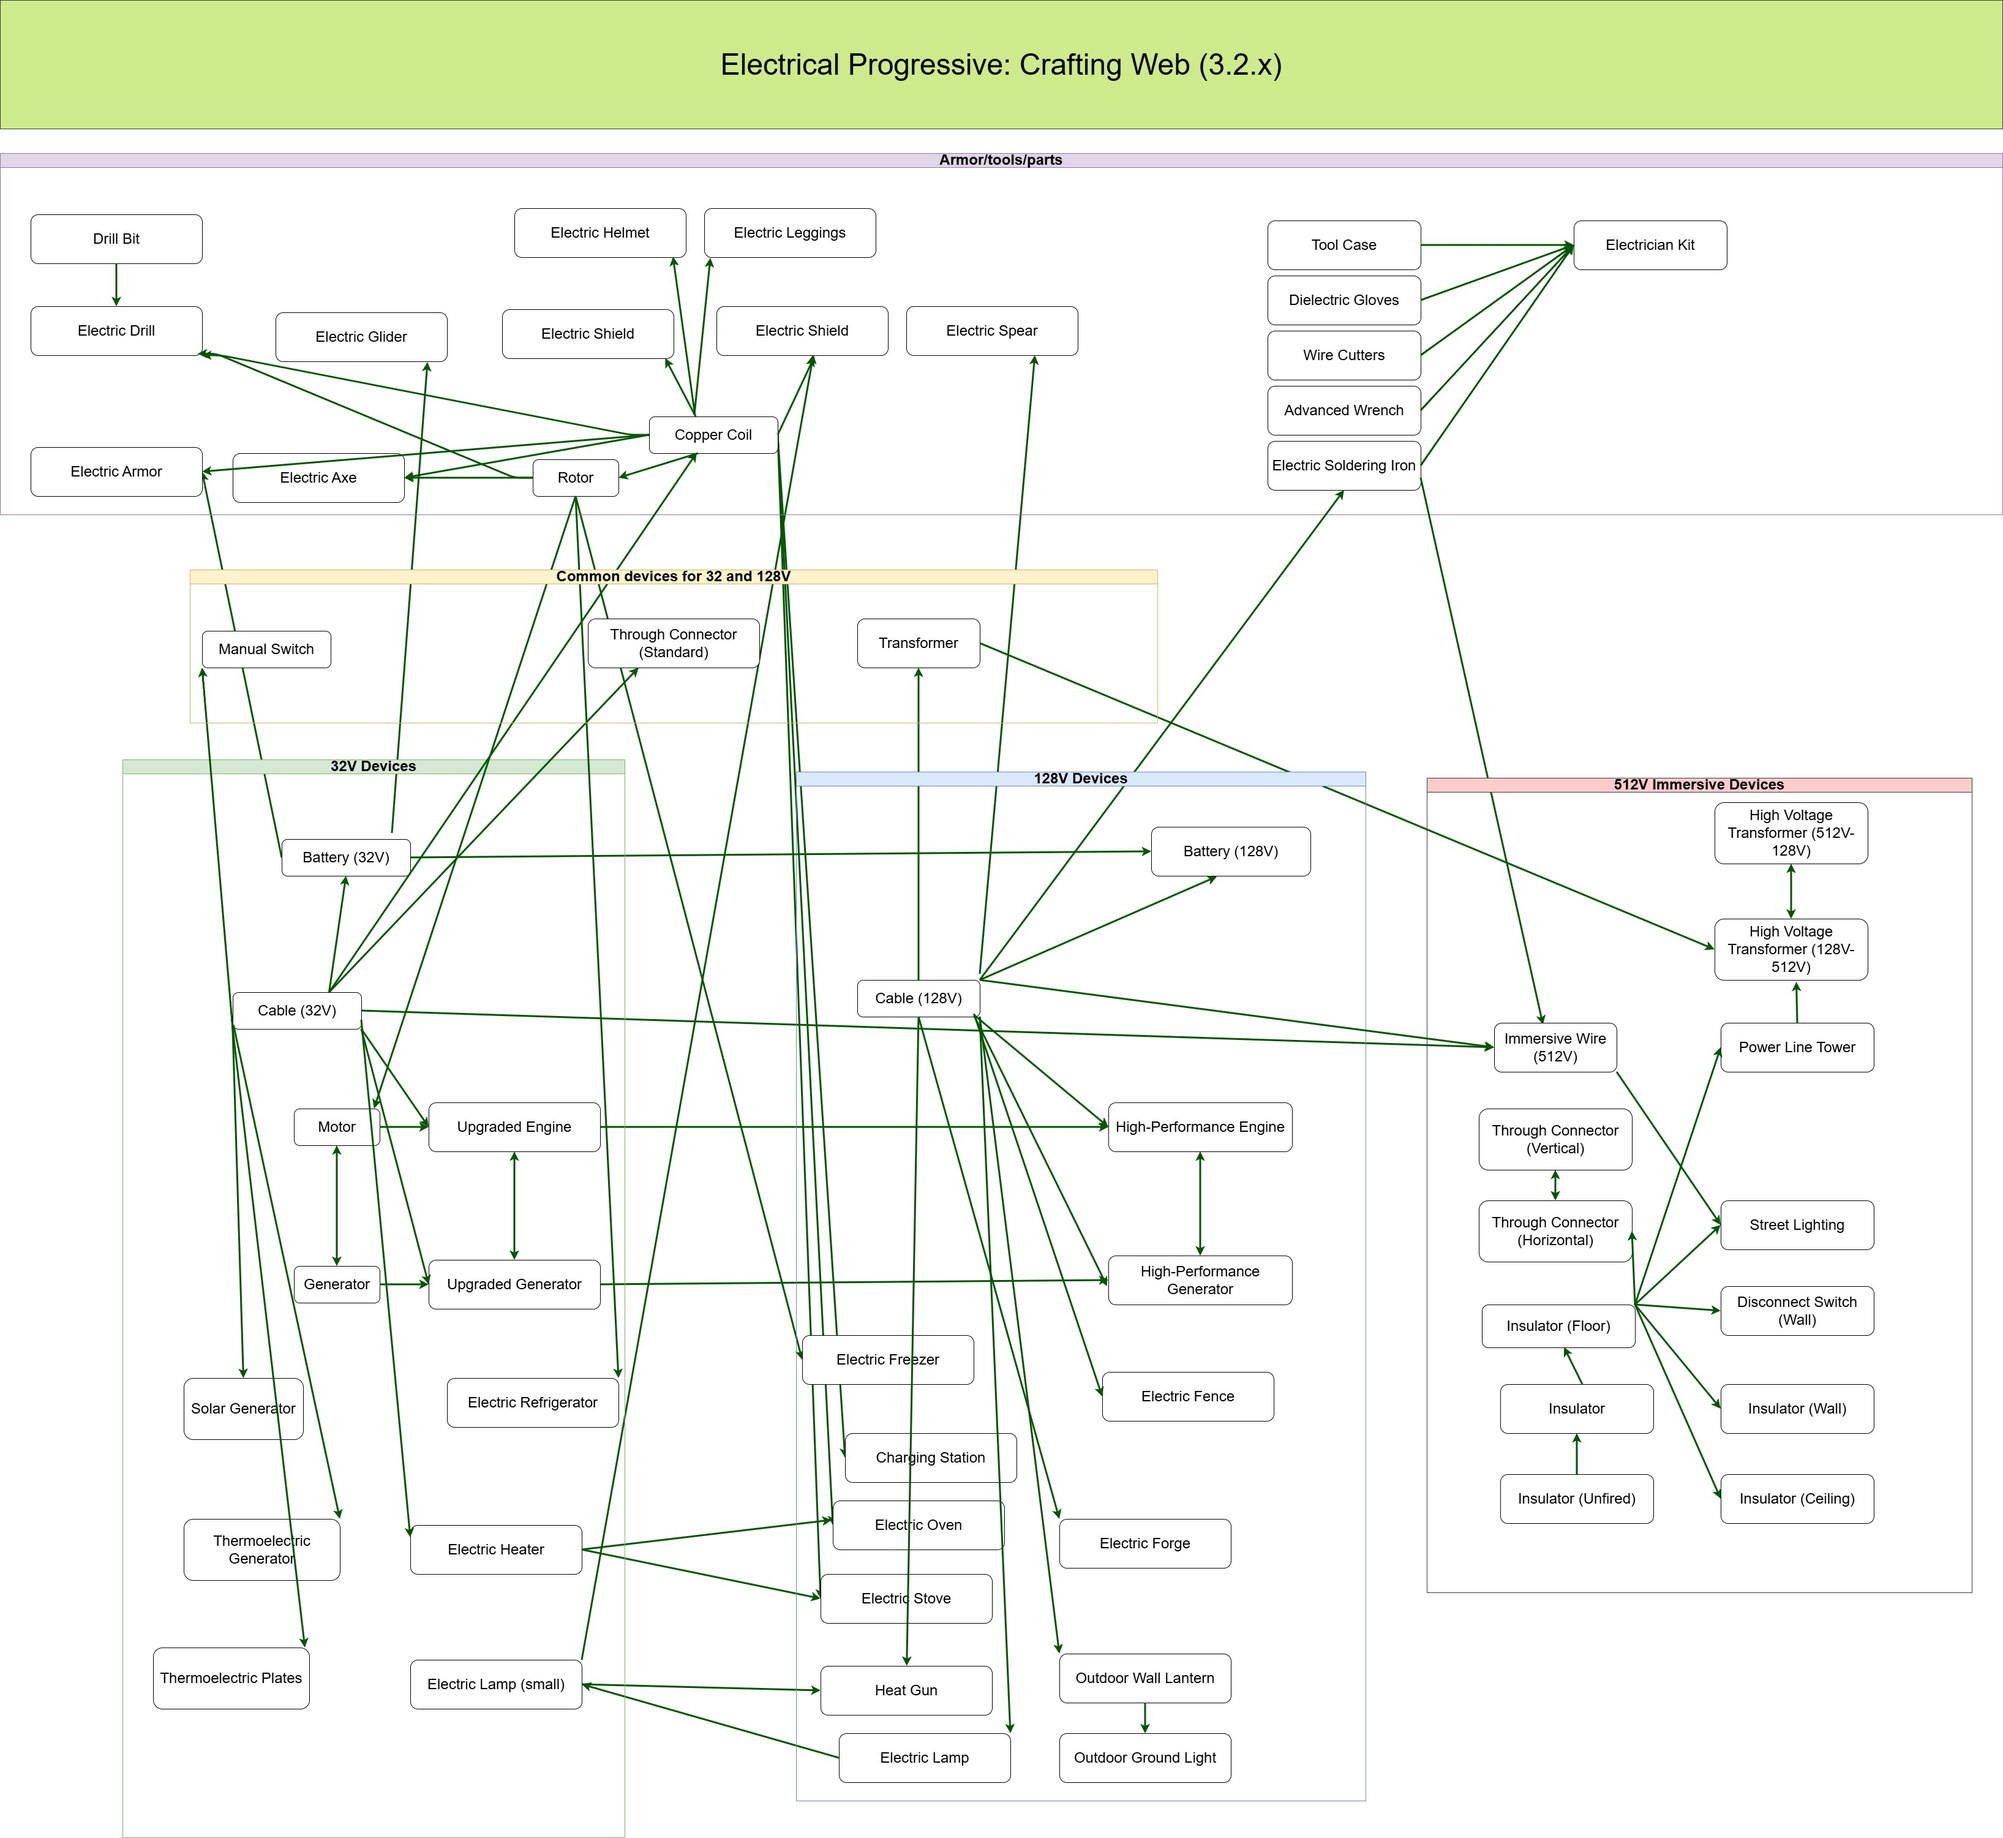
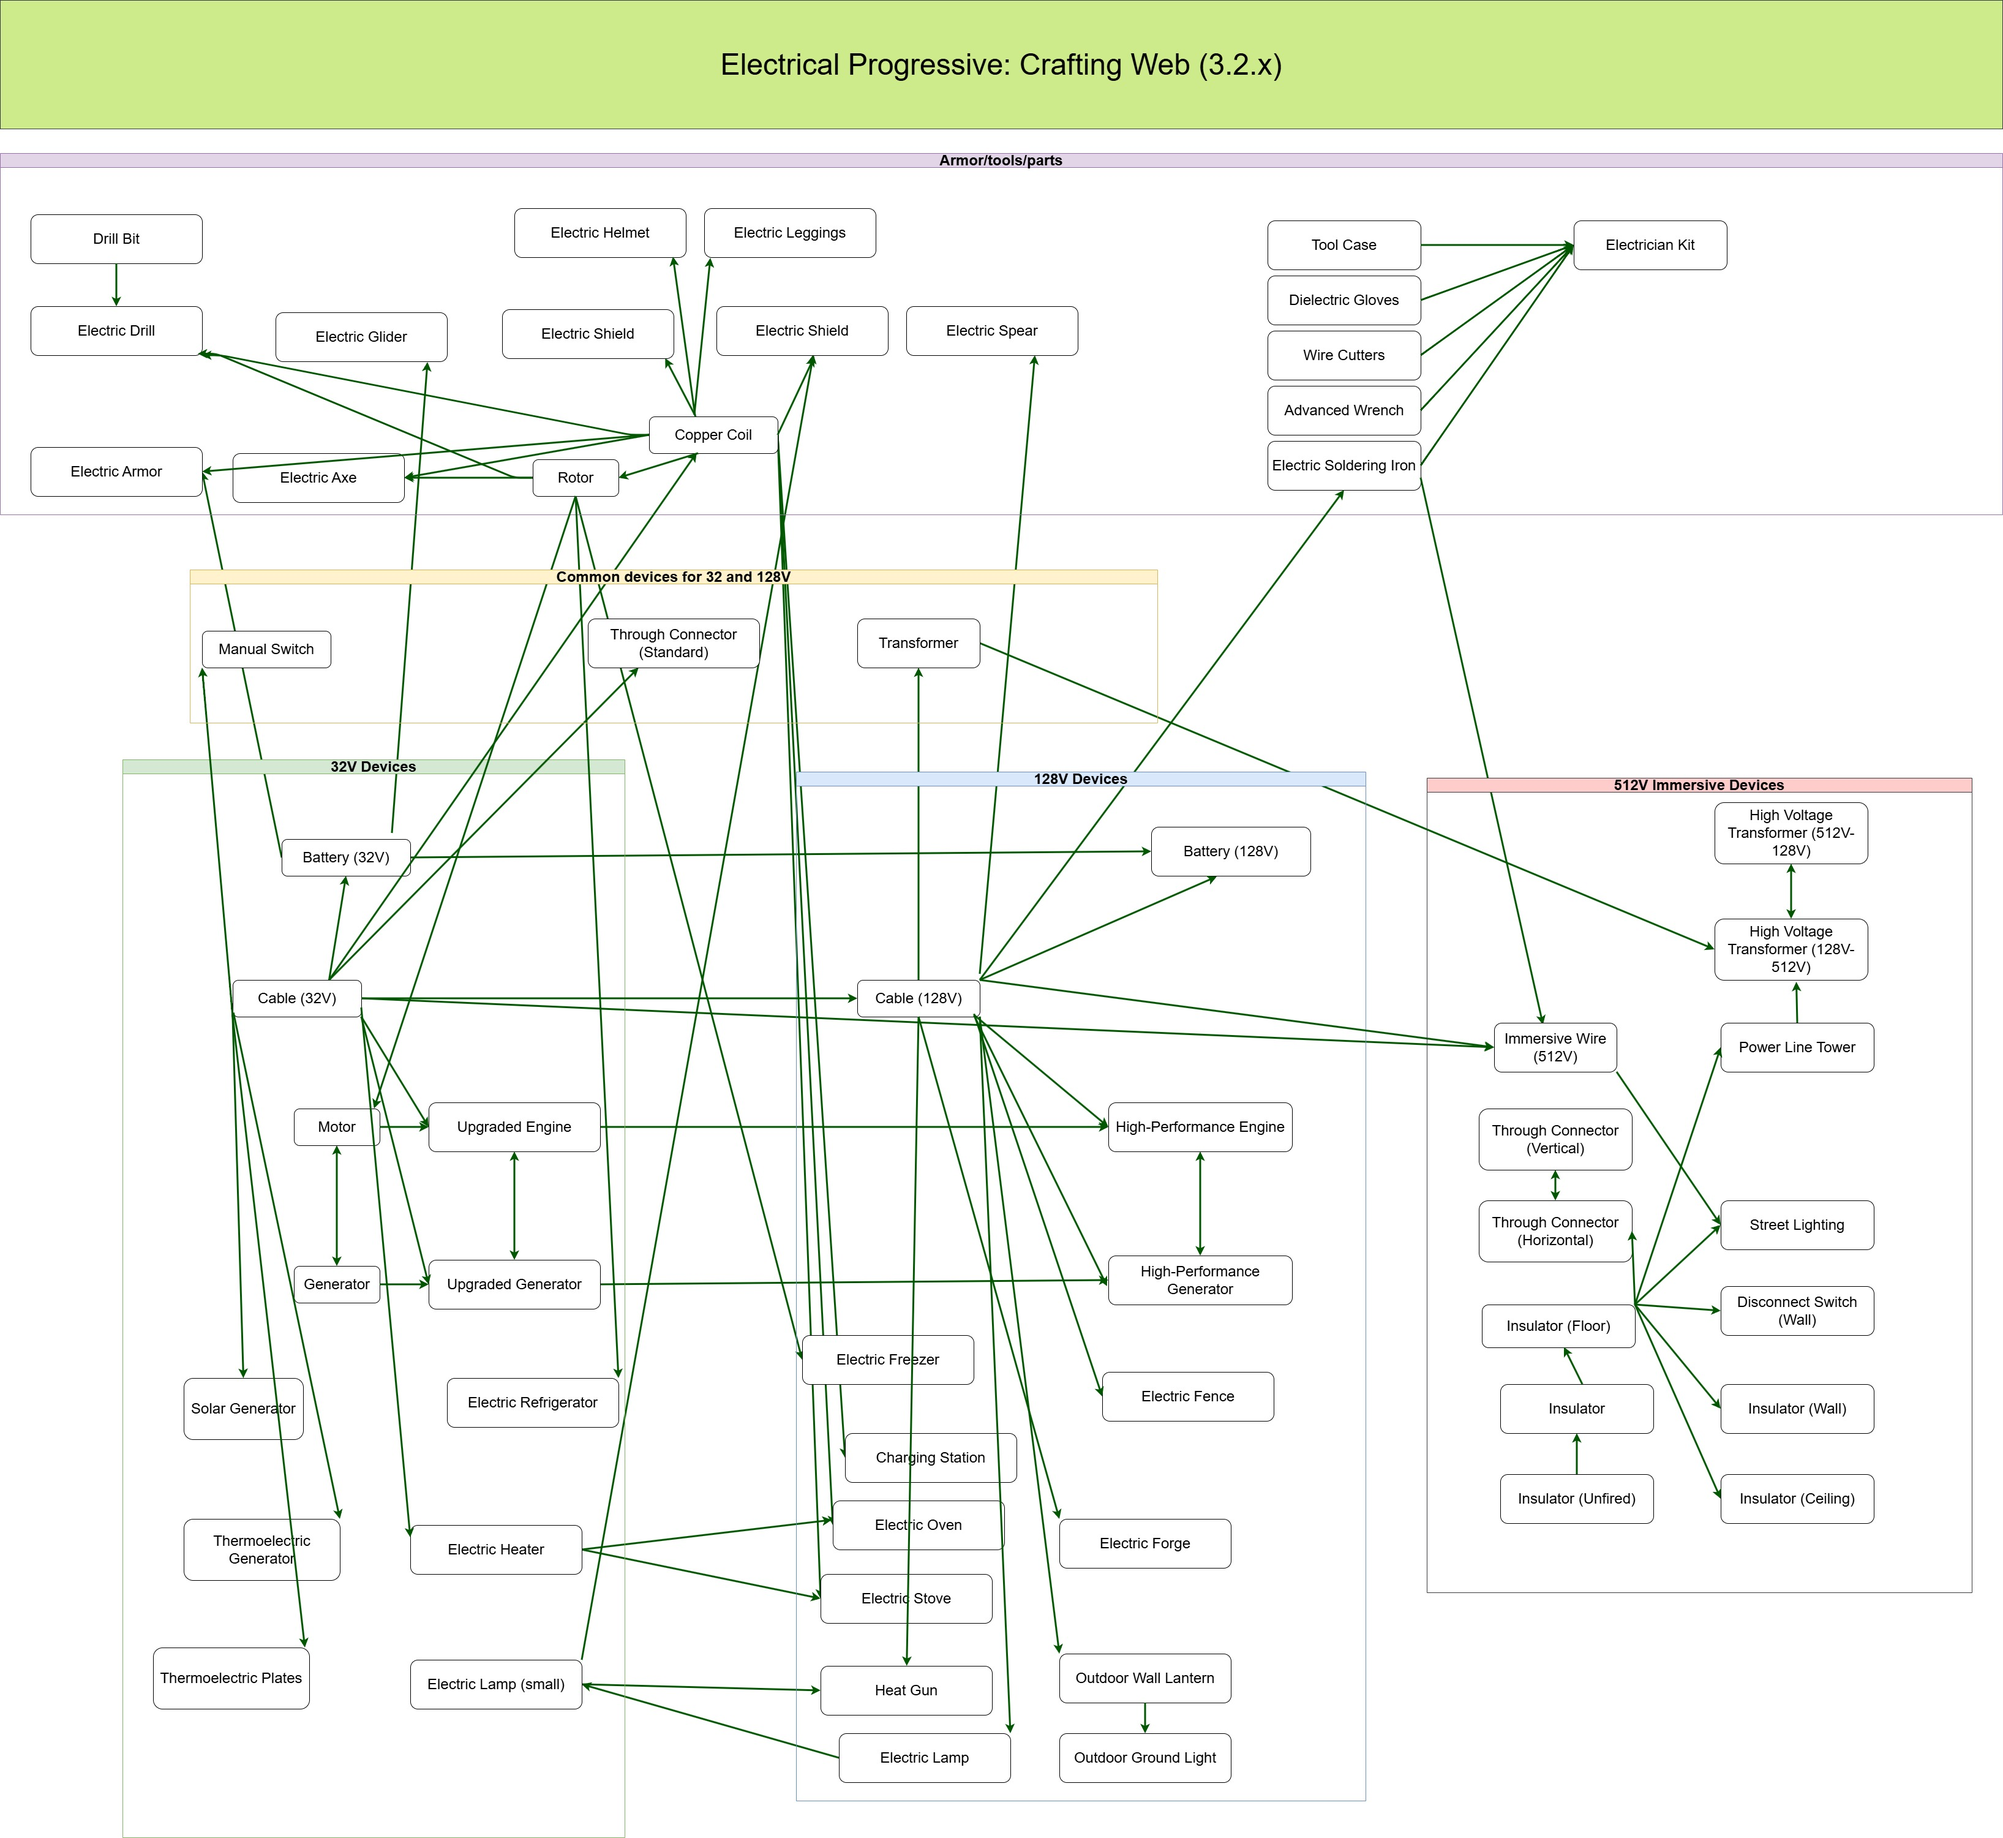
- Теперь 128В кабеля можно скрафтить из кабелей 32В - Исправлено: моделька выключателя не обновлялась при переключении. - Обновлена паутина крафтов
- 128V cables can now be crafted from 32V cables.
- Fixed: The switch model was not updating when toggled.
- Updated the crafting web.

diff --git a/ElectricalProgressive-Basics/Content/Block/ECable/BlockECable.cs b/ElectricalProgressive-Basics/Content/Block/ECable/BlockECable.cs
@@ -574,6 +574,7 @@ namespace ElectricalProgressive.Content.Block.ECable
                 if (selectedSwitches != 0)
                 {
                     entity.SwitchesState ^= selectedSwitches;
+                    entity.MarkDirty(true); // обновляем блокэнтити, чтобы переключатель обновился
                     return true;
                 }
             }

diff --git a/ElectricalProgressive-Basics/ElectricalProgressiveBasics.cs b/ElectricalProgressive-Basics/ElectricalProgressiveBasics.cs
@@ -28,7 +28,7 @@ using Vintagestory.API.Config;
     "electricalprogressivebasics",
     Website = "https://github.com/tehtelev/ElectricalProgressive",
     Description = "Basic electrical devices.",
-    Version = "3.2.4",
+    Version = "3.2.5",
     Authors =
     [
         "Tehtelev",
